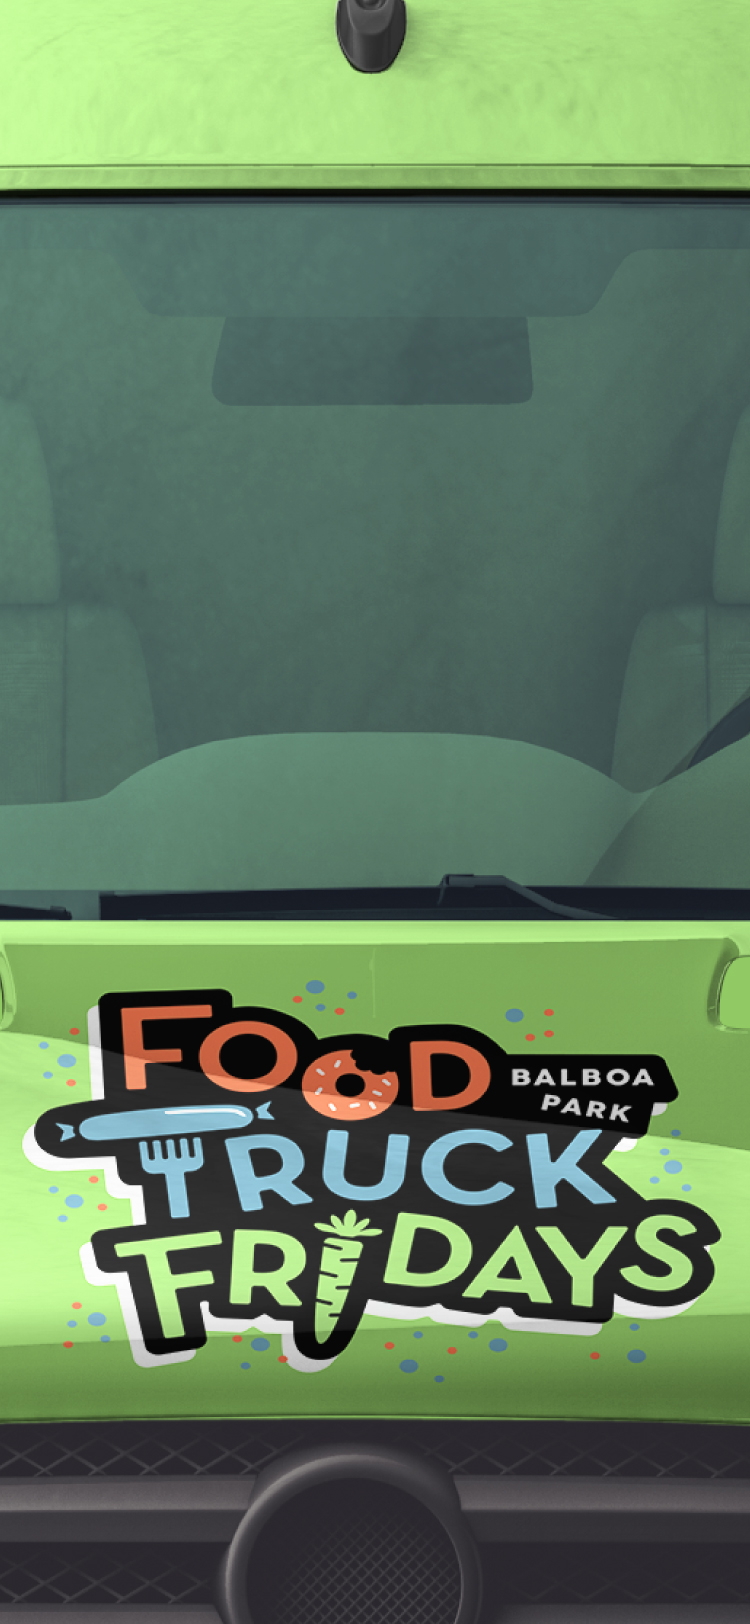
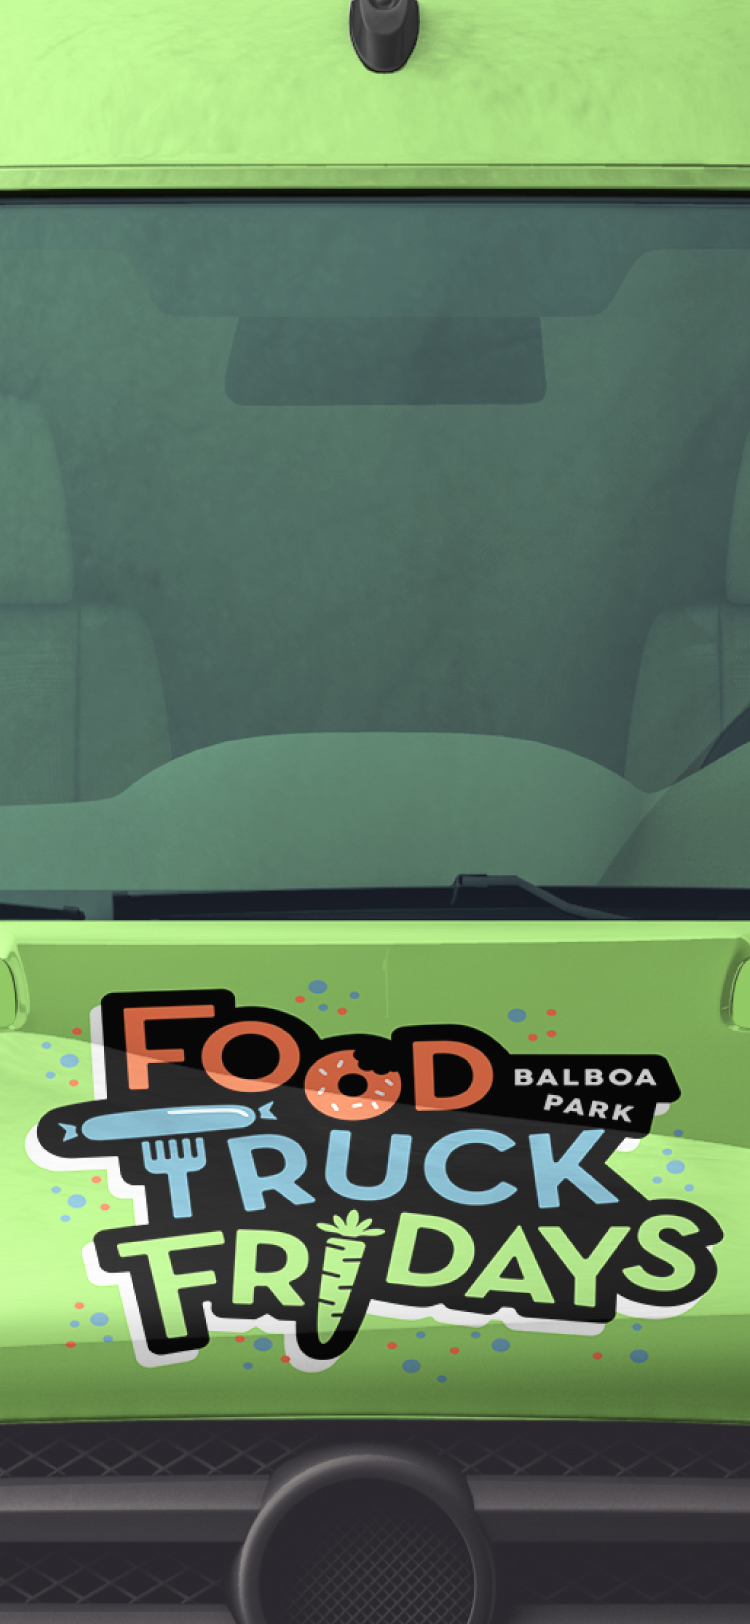
Mobile Covers

diff --git a/assets/css/style.css b/assets/css/style.css
@@ -645,7 +645,7 @@ textarea,
     
     #uiUx {
         /* background: linear-gradient(to bottom, rgb(70, 0, 0) 20%, rgb(26, 0, 0) 100%); */
-        background: linear-gradient(to bottom, rgba(64,121,118) 0%, rgba(64,121,118,0) 80%), url("../images/coverSilverMob.jpg");
+        background: url("../images/coverSilverMob.jpg");
         background-size: cover;
         /* background-position: center; */
         /* background-repeat: no-repeat; */
